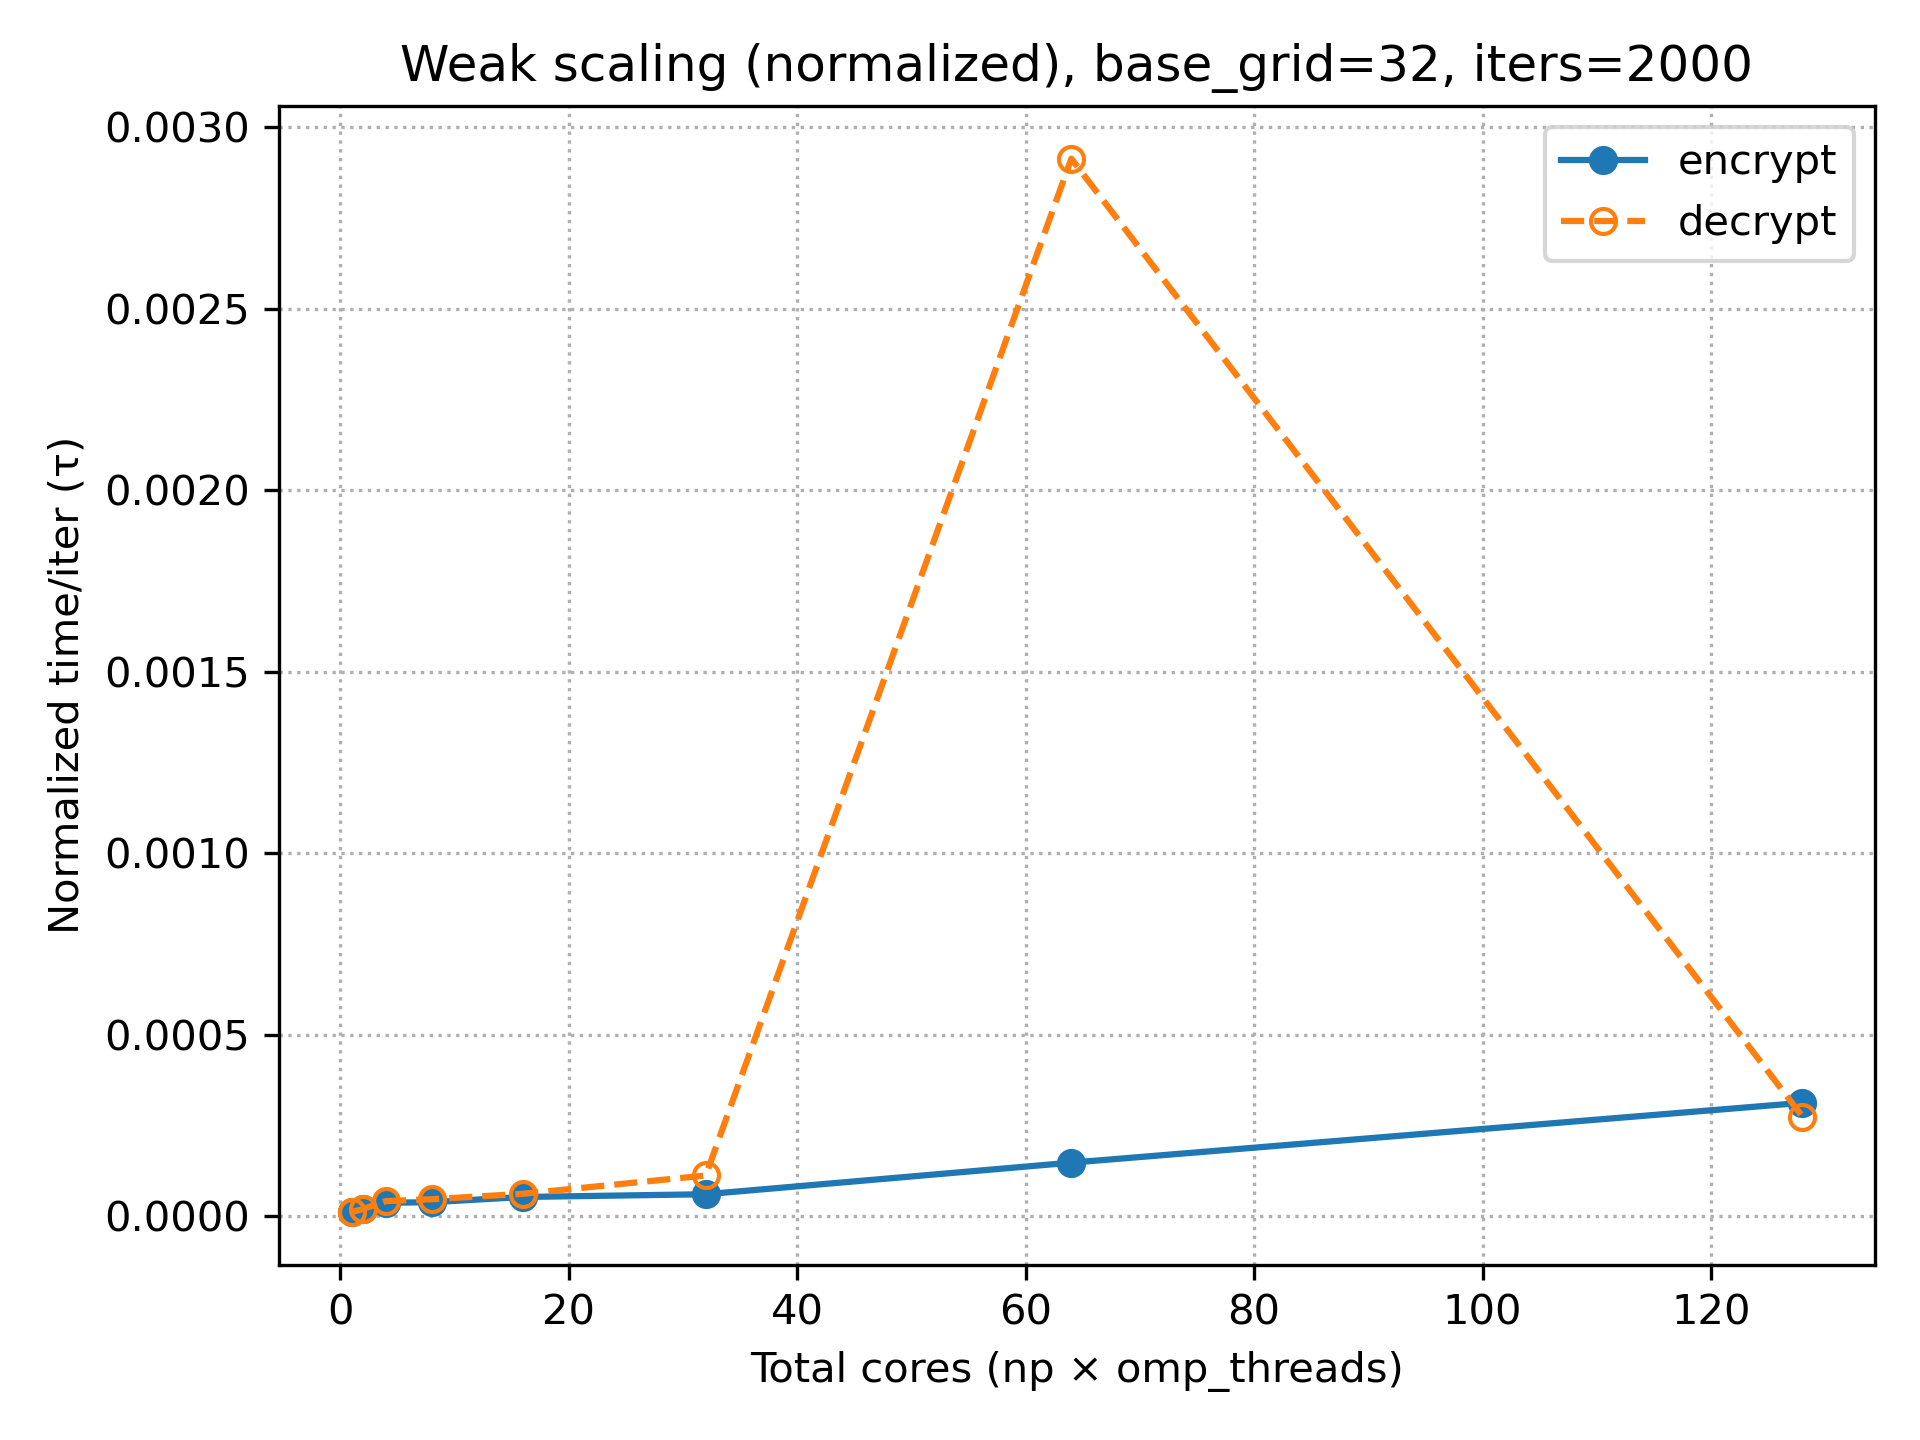
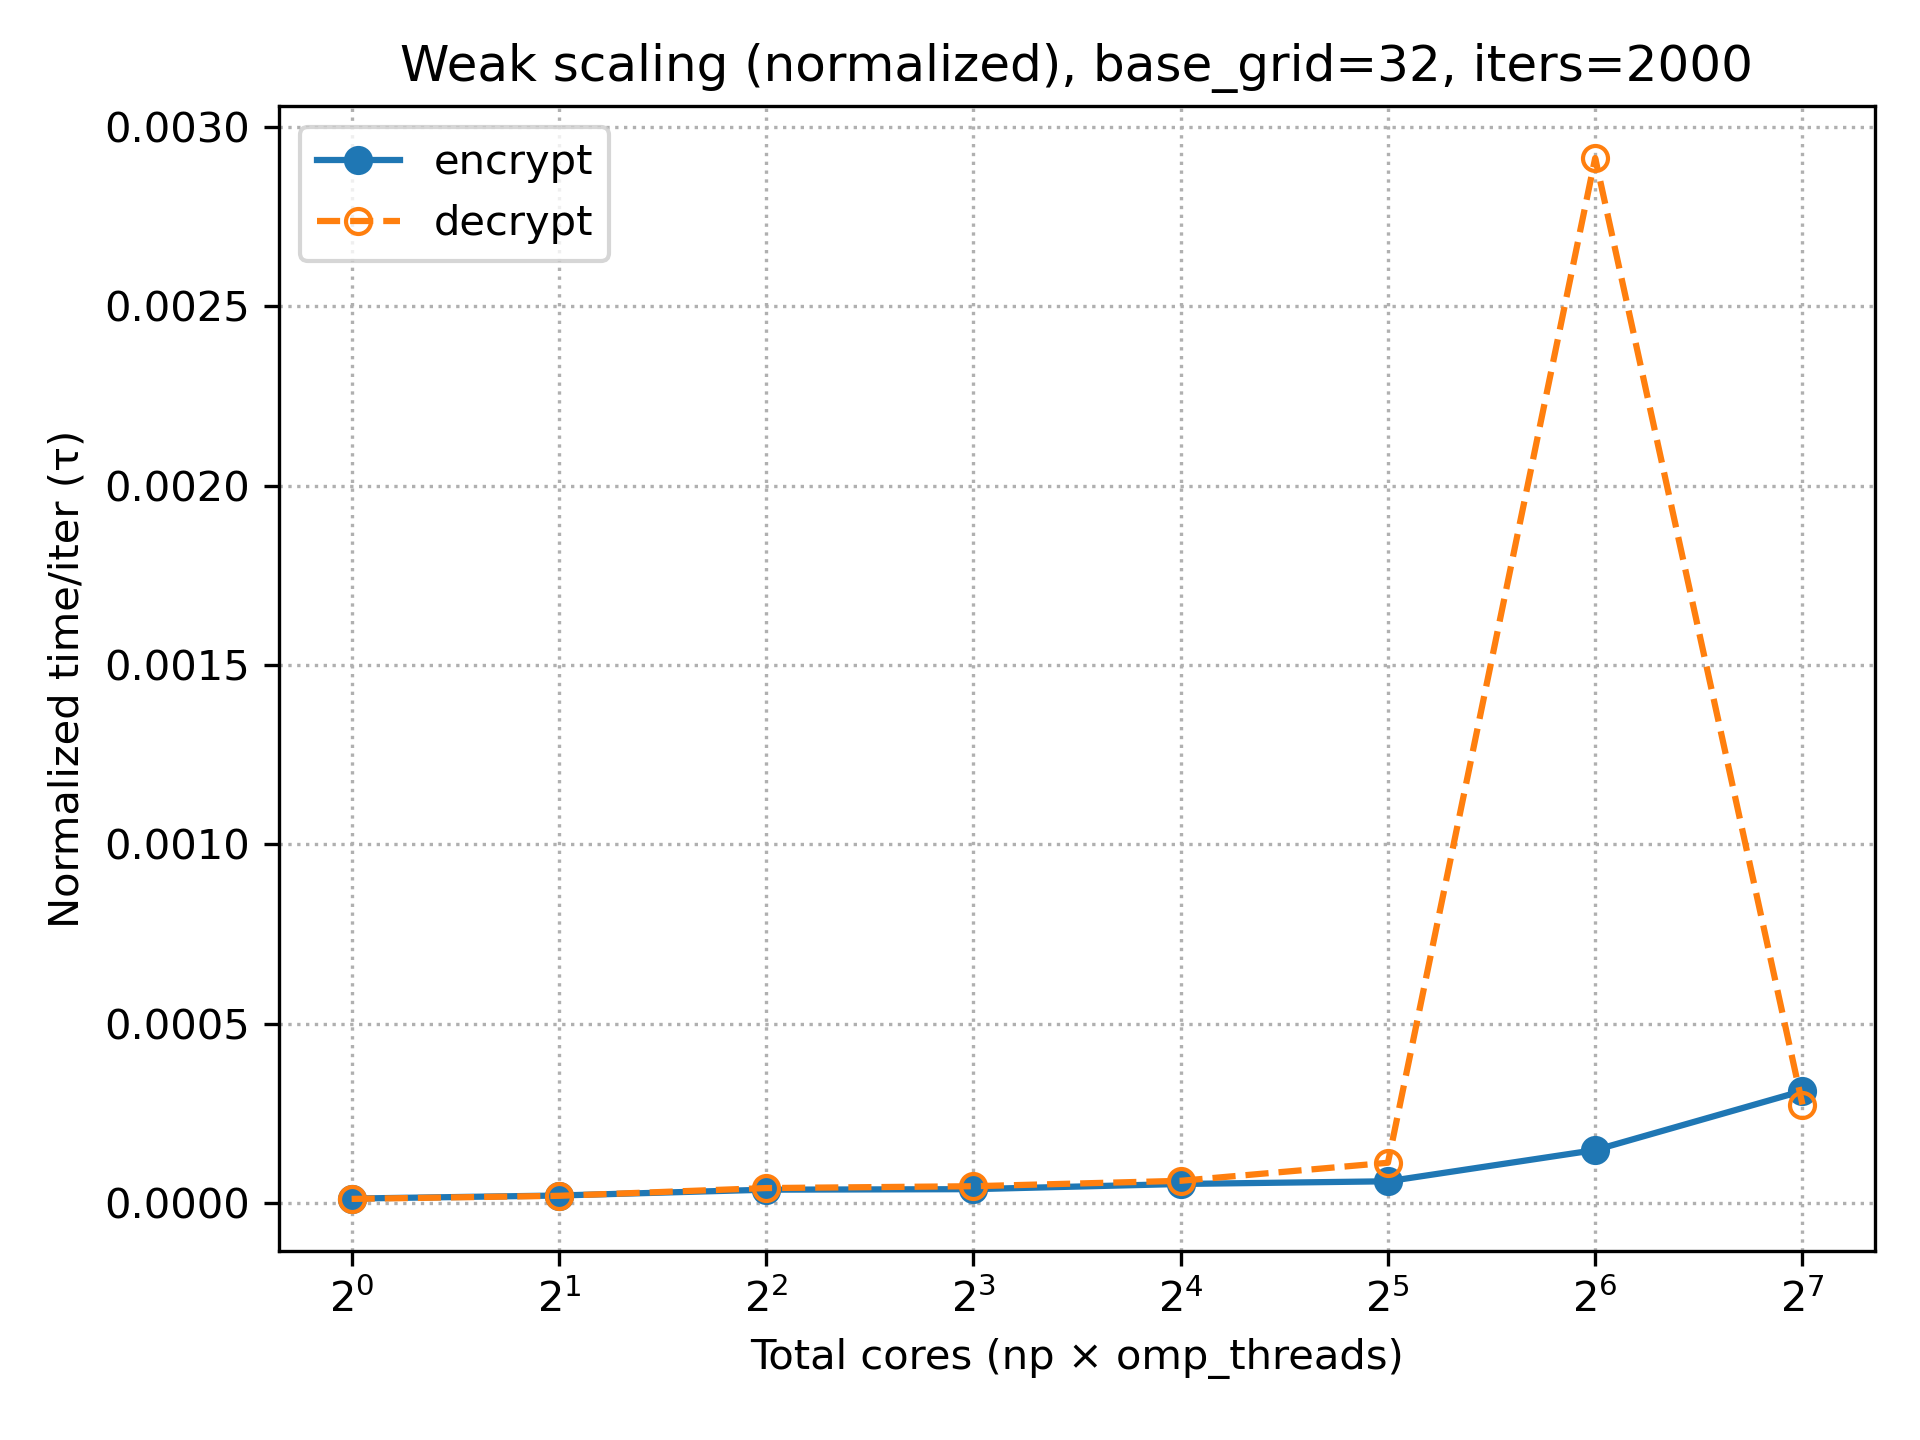
logarithmic scales

diff --git a/benchmarking_visualization.py b/benchmarking_visualization.py
@@ -131,6 +131,7 @@ def strong_scaling_combined(data, grids, num_itrs):
     ax.set_xlabel("Total cores (np × omp_threads)")
     ax.set_ylabel("Speedup vs 1 core")
     ax.set_title(f"Strong scaling — encrypt only; iters={num_itrs}")
+    ax.set_xscale("log", base=2)
     ax.set_ylim(0, 40)  # Adjust as needed
     ax.legend()
     ax.grid(True, linestyle=":")
@@ -207,6 +208,7 @@ def weak_scaling(data, modes, base_grid, num_itrs):
     ax.set_title(f"Weak scaling (normalized), base_grid={base_grid}, iters={num_itrs}")
     ax.legend()
     ax.grid(True, linestyle=":")
+    ax.set_xscale("log", base=2)
     plt.tight_layout()
     out_path = f"results/bench_results/weak_simple_combined_base{base_grid}.png"
     fig.savefig(out_path, dpi=300)
